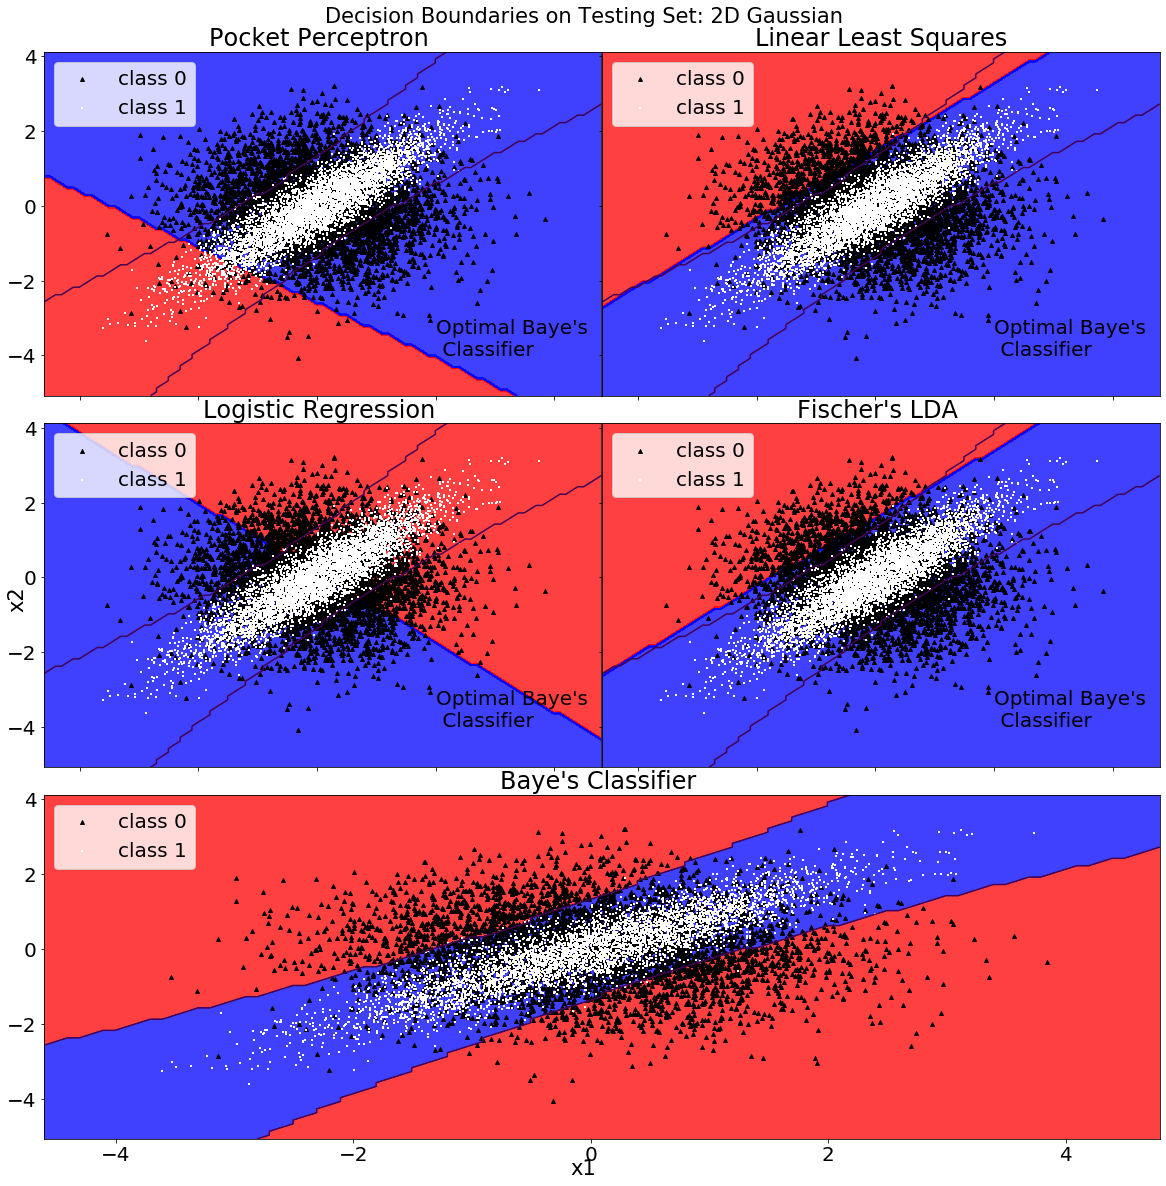
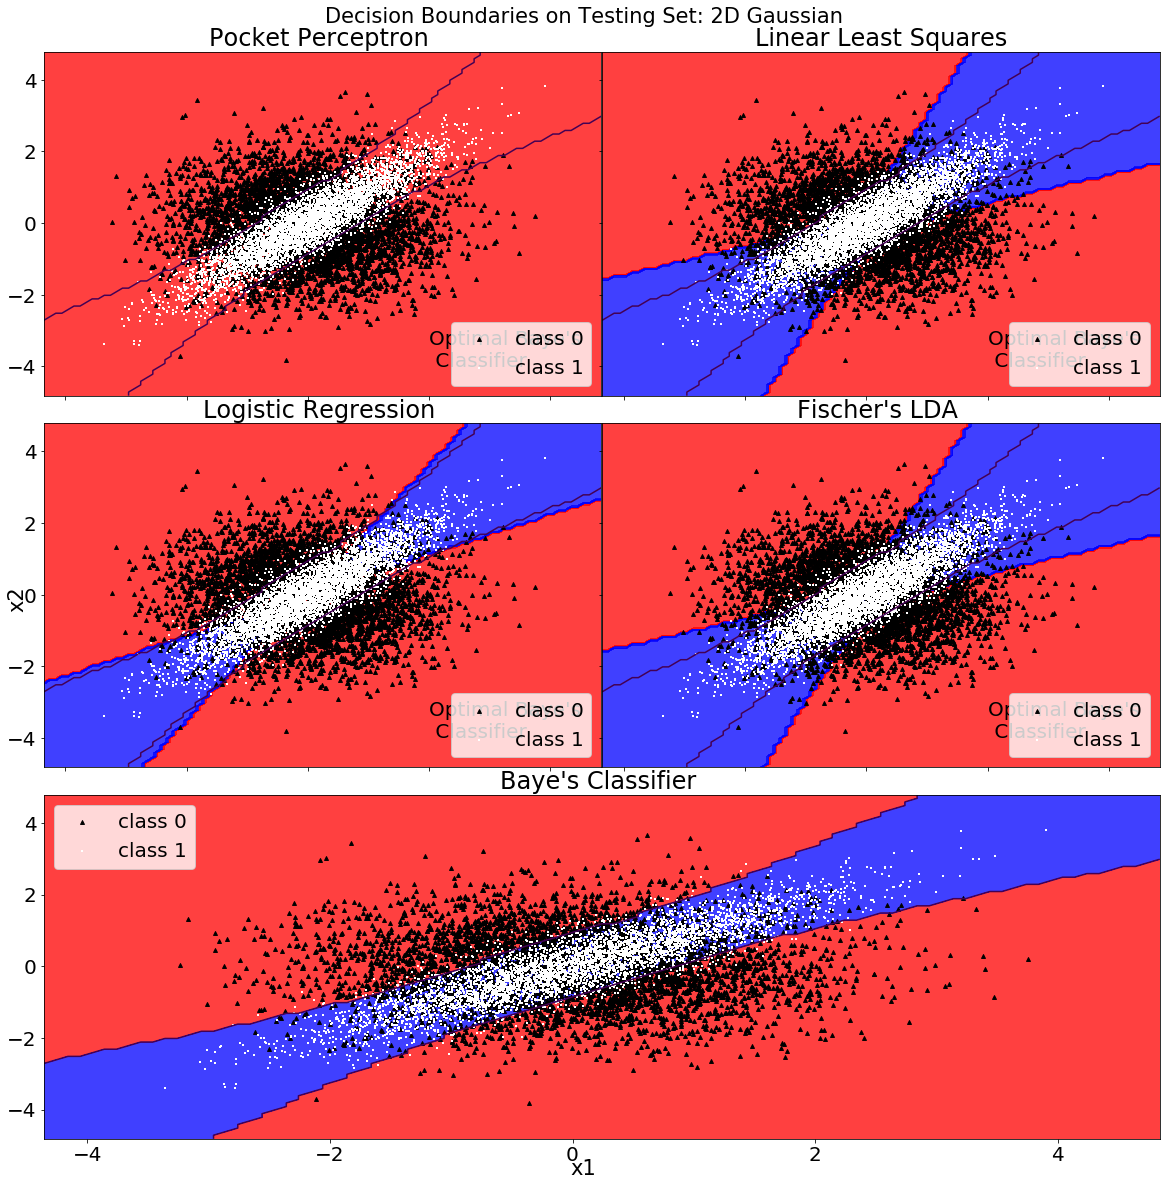
small adjustments

diff --git a/Assignment 4/Classification Task/Synthetic Dataset/my_help_functions.py b/Assignment 4/Classification Task/Synthetic Dataset/my_help_functions.py
@@ -17,7 +17,7 @@ def pocket_percep(x_train,y_train):
     
     y=np.expand_dims(y,axis=1)
     x=np.concatenate((bias,x_train),axis=1)
-    learning_rate=0.001
+    learning_rate=0.01
 
     W=np.zeros((x_train.shape[1]+1))
 
@@ -83,7 +83,7 @@ def log_reg(x_train,y_train):
     
     y=np.expand_dims(y,axis=1)
     x=np.concatenate((bias,x_train),axis=1)
-    learning_rate=0.001
+    learning_rate=0.1
     W=np.zeros((x_train.shape[1]+1))
     
     for i in range(100):
@@ -308,6 +308,15 @@ def MESH_plot(y_set,X_set,title_name,**kwargs):
     X1, X2 = np.meshgrid(np.arange(start=X_set[:, 0].min()-1,stop=X_set[:, 0].max()+1,step=0.1),
                          np.arange(start=X_set[:,1].min()-1,stop=X_set[:,1].max()+1,step=0.1))
     test_points=np.array([X1.ravel(), X2.ravel()]).T
+    
+    ###########################################QUADRATIC TRANSFORM############################
+    if quad_Dec:
+        test_points=np.concatenate((test_points,np.zeros((test_points.shape[0],3))),axis=1)
+        test_points[:,2]=test_points[:,0]**2
+        test_points[:,3]=test_points[:,1]**2
+        test_points[:,4]=test_points[:,0]*test_points[:,1]  
+    ###########################################QUADRATIC TRANSFORM############################
+        
     if type(classifier_weights)!= np.ndarray:
         # range_of_points=classifier_weights.predict(test_points)
         range_of_points=np.zeros(len(test_points))
@@ -315,10 +324,6 @@ def MESH_plot(y_set,X_set,title_name,**kwargs):
         
         # for i in range(len(test_points)):
         #     range_of_points[i]=(np.sign(bay.dec_bound(test_points[i]))+1)/2
-        ###########################################QUADRATIC TRANSFORM############################
-        if quad_Dec:
-            test_points=np.concatenate((test_points,np.zeros((test_points.shape[0],3))),axis=1)        
-        ###########################################QUADRATIC TRANSFORM############################
         range_of_points=bay.dec_bound(test_points)
             
             
@@ -327,11 +332,11 @@ def MESH_plot(y_set,X_set,title_name,**kwargs):
         cs=subplot.contourf(X1, X2,classifier_regions,alpha = 0.75,levels=[-1,0,1],cmap = ListedColormap(('red', 'blue')))
     else:
         if Fisher_or_Log.lower()=="fischer":
-            range_of_points=linear_classify(classifier_weights[0:3],test_points,0,only_classify=True,fischer=True)
+            range_of_points=linear_classify(classifier_weights,test_points,0,only_classify=True,fischer=True)
         elif Fisher_or_Log.lower()=="logistic":
-            range_of_points=linear_classify(classifier_weights[0:3],test_points,0,only_classify=True,logistic=True)
+            range_of_points=linear_classify(classifier_weights,test_points,0,only_classify=True,logistic=True)
         else:
-            range_of_points=linear_classify(classifier_weights[0:3],test_points,0,only_classify=True)
+            range_of_points=linear_classify(classifier_weights,test_points,0,only_classify=True)
             
         classifier_regions=range_of_points.reshape(X1.shape) #Reshape it into a matrix        
         cs=subplot.contourf(X1, X2,classifier_regions,alpha = 0.75, cmap = ListedColormap(('red', 'blue')))
@@ -346,13 +351,13 @@ def MESH_plot(y_set,X_set,title_name,**kwargs):
         # for i in range(len(test_points)):
         #     temp[i]=bay.dec_bound(test_points[i])
         
-        ###########################################QUADRATIC TRANSFORM############################
-        if quad_Dec:
-            if type(classifier_weights)!= np.ndarray:
-                test_points=test_points
-            else:
-                test_points=np.concatenate((test_points,np.zeros((test_points.shape[0],3))),axis=1)
-        ###########################################QUADRATIC TRANSFORM############################
+        # ###########################################QUADRATIC TRANSFORM############################
+        # if quad_Dec:
+        #     if type(classifier_weights)!= np.ndarray:
+        #         test_points=test_points
+        #     else:
+        #         test_points=np.concatenate((test_points,np.zeros((test_points.shape[0],3))),axis=1)
+        # ###########################################QUADRATIC TRANSFORM############################
         temp=bay.dec_bound(test_points)
             
         temp=np.expand_dims(np.asarray(temp),axis=1)

diff --git a/Assignment 4/Classification Task/Credit/Confusion_Kaggle.py b/Assignment 4/Classification Task/Credit/Confusion_Kaggle.py
@@ -7,7 +7,7 @@ def plot_confusion_matrix(cm,
                           target_names,
                           
                           cmap=None,
-                          normalize=True,**kwargs):
+                          normalize=False,**kwargs):
     """
     given a sklearn confusion matrix (cm), make a nice plot
 
@@ -47,13 +47,13 @@ def plot_confusion_matrix(cm,
     accuracy = (np.trace(cm) / float(np.sum(cm)))*100
     misclass = (100 - accuracy)
 
-    if cmap is None:
-        # cmap = plt.get_cmap('YlGnBu')
-        cmap = plt.get_cmap('winter')
+    # if cmap is None:
+    #     cmap = plt.get_cmap('YlOrRd')
+    cmap = plt.get_cmap('YlOrRd')
     
     # plt.rcParams.update({'font.size': 20})
     plt.figure(num=None, figsize=(10, 10), dpi=150, facecolor='w', edgecolor='k')    
-    plt.imshow(cm, interpolation='nearest', cmap=cmap)
+    plt.imshow(cm, interpolation='nearest')
     plt.rcParams.update({'font.size': 15})
     plt.title(title,fontsize=25)
     plt.rcParams.update({'font.size': 20})
@@ -70,19 +70,18 @@ def plot_confusion_matrix(cm,
 
 
     thresh = cm.max() / 1.5 if normalize else cm.max() / 2
-    thresh=thresh*100
     for i, j in itertools.product(range(cm.shape[0]), range(cm.shape[1])):
         if normalize:
-            plt.text(j, i, "{:0.2f}%".format(cm[i, j]*100),
+            plt.text(j, i, "{:0.2f}".format(cm[i, j]),
                      horizontalalignment="center",
-                     color="white" if cm[i, j] > thresh else "black",fontsize=20)
+                     color="black" if cm[i, j] > thresh else "white",fontsize=20)
         else:
-            plt.text(j, i, "{:,}".format(cm[i, j]),
+            plt.text(j, i, "{:0.2f}".format(cm[i, j]),
                      horizontalalignment="center",
-                     color="white" if cm[i, j] > thresh else "black",fontsize=20)
+                     color="black" if cm[i, j] > thresh else "white",fontsize=20)
 
 
     # plt.tight_layout()    
-    plt.ylabel('True label',fontsize=25)
-    plt.xlabel('\nPredicted label\n Accuracy={:0.2f} %; Error={:0.2f} %'.format(accuracy, misclass),fontsize=25)
+    plt.ylabel('Predicted label',fontsize=25)
+    plt.xlabel('\n True label\n Accuracy={:0.2f} %; Error={:0.2f} %'.format(accuracy, misclass),fontsize=25)
     plt.show()

diff --git a/Assignment 4/Classification Task/Synthetic Dataset/Main_Code.py b/Assignment 4/Classification Task/Synthetic Dataset/Main_Code.py
@@ -14,10 +14,10 @@ d=2 #How many dimensions
 p=0.5
 
 means=[np.zeros(d),np.zeros(d)]
-means=[[0,3],[3,2]]
+means=[[0,0],[0,0]]
 means=np.squeeze(np.asarray(means)).T
-covariance=np.dstack(([[1, -0.5],[-0.5, 1]],[[1, 0.9],[0.9, 1]]))
-covariance=np.dstack(([[1, 0.9],[0.9, 1]],[[1, 0],[0, 1]]))
+# covariance=np.dstack(([[1, -0.5],[-0.5, 1]],[[1, 0.9],[0.9, 1]]))
+covariance=np.dstack(([[1, 0],[0, 1]],[[1, 0.9],[0.9, 1]]))
 # covariance=np.dstack((np.eye(d),np.eye(d)))
 #%% Creating the bayes object
 opti_bayes=mf.Bayes_Dec_Boundary(means[:,0],means[:,1],covariance[:,:,0],covariance[:,:,1],p,1-p)
@@ -48,12 +48,12 @@ opti_bayes.clf.fit(x_train,y_train)
 data=[x_train,y_train,x_test,y_test]
 [y_pred1,y_pred2,y_pred3,y_pred4,y_pred5]=mf.Eval(data,opti_bayes)
 #%%
-# mf.Plot_Figs(y_test,x_test,K,"10k Points")
+mf.Plot_Figs(y_test,x_test,K,"10k Points")
 #%%
-# mf.Plot_SubPlots(data,"Decision Boundaries on Testing Set: 2D Gaussian","x1","x2",opti_bayes,quad_Dec=quad_Dec)
+mf.Plot_SubPlots(data,"Decision Boundaries on Testing Set: 2D Gaussian","x1","x2",opti_bayes,quad_Dec=quad_Dec)
 from Confusion_Kaggle import plot_confusion_matrix
 import sklearn.metrics
-typ=" Testing Set 10D"
+typ=" Testing Set 2D"
 name1="\n Perceptron"+typ
 name2="\n Least Squares"+typ
 name3="\n Logistic Regression"+typ
@@ -64,11 +64,11 @@ name5="\n Baye's Classifier"+typ
 Class_labels= ["Class 0", "Class 1"]
 
 
-k1=sklearn.metrics.confusion_matrix(y_pred1,y_test,normalize='true')
-k2=sklearn.metrics.confusion_matrix(y_pred2,y_test,normalize='true')
-k3=sklearn.metrics.confusion_matrix(y_pred3,y_test,normalize='true')
-k4=sklearn.metrics.confusion_matrix(y_pred4,y_test,normalize='true')
-k5=sklearn.metrics.confusion_matrix(y_pred5,y_test,normalize='true')
+k1=sklearn.metrics.confusion_matrix(y_pred1,y_test)
+k2=sklearn.metrics.confusion_matrix(y_pred2,y_test)
+k3=sklearn.metrics.confusion_matrix(y_pred3,y_test)
+k4=sklearn.metrics.confusion_matrix(y_pred4,y_test)
+k5=sklearn.metrics.confusion_matrix(y_pred5,y_test)
 
 plot_confusion_matrix(k1, Class_labels,title=name1)
 plot_confusion_matrix(k2, Class_labels,title=name2)

diff --git a/Assignment 4/Classification Task/Credit/Main.py b/Assignment 4/Classification Task/Credit/Main.py
@@ -58,7 +58,7 @@ data_clean = pd.concat([data[numvars], dummyvars], axis = 1)
 # Unscaled, unnormalized data
 X_clean = data_clean.drop('classification', axis=1)
 y_clean = data_clean['classification']
-X_train_clean, X_test_clean, y_train_clean, y_test_clean = train_test_split(X_clean,y_clean,test_size=0.2, random_state=1)
+X_train_clean, X_test_clean, y_train_clean, y_test_clean = train_test_split(X_clean,y_clean,test_size=0.3, random_state=1)
 
 #%% Oversampling to fix imbalance
 from imblearn.over_sampling import SMOTE
@@ -69,8 +69,8 @@ from imblearn.over_sampling import SMOTE
 # Apply SMOTE
 sm = SMOTE()
 X_train_clean_res, y_train_clean_res = sm.fit_sample(X_train_clean, y_train_clean)
-# X_train_clean_res=X_train_clean+0
-# y_train_clean_res=y_train_clean+0
+X_train_clean_res=X_train_clean+0
+y_train_clean_res=y_train_clean+0
 # Print number of 'good' credits and 'bad credits, should be fairly balanced now
 print("Before/After clean")
 unique, counts = np.unique(y_train_clean, return_counts=True)
@@ -100,17 +100,19 @@ y_train_clean_res=y_train_clean_res.to_numpy()
 X_test_clean=X_test_clean.to_numpy()
 y_test_clean=y_test_clean.to_numpy()
 data=[X_train_clean_res,y_train_clean_res,X_test_clean, y_test_clean]
+# data=[X_train_clean_res,y_train_clean_res,X_train_clean_res, y_train_clean_res]
+
 [y_pred1,y_pred2,y_pred3,y_pred4,y_test]=as4.Eval(data)
 
 #%%CONFUSION PLOTS
 from Confusion_Kaggle import plot_confusion_matrix
 import sklearn
-split="80 : 20"
+split="70 : 30 train set"
 name1="\n Perceptron "+split
 name2="\n Logistic "+split
 name3="\n Least Squares "+split
 name4="\n Fischer's LDA "+split
-Class_labels= [str(cla) for cla in np.unique(y_test)]
+Class_labels= ['Bad Credit', 'Good Credit']
 
 
 k1=sklearn.metrics.confusion_matrix(y_pred1+1,y_test+1,normalize=None)

diff --git a/Assignment 4/Classification Task/Synthetic Dataset/Confusion_Kaggle.py b/Assignment 4/Classification Task/Synthetic Dataset/Confusion_Kaggle.py
@@ -72,16 +72,16 @@ def plot_confusion_matrix(cm,
     thresh = cm.max() / 1.5 if normalize else cm.max() / 2
     for i, j in itertools.product(range(cm.shape[0]), range(cm.shape[1])):
         if normalize:
-            plt.text(j, i, "{:0.2f}%".format(cm[i, j]*100),
+            plt.text(j, i, "{:0.2f}".format(cm[i, j]),
                      horizontalalignment="center",
                      color="black" if cm[i, j] > thresh else "white",fontsize=20)
         else:
-            plt.text(j, i, "{:0.2f}%".format(100*cm[i, j]),
+            plt.text(j, i, "{:0.2f}".format(cm[i, j]),
                      horizontalalignment="center",
                      color="black" if cm[i, j] > thresh else "white",fontsize=20)
 
 
     # plt.tight_layout()    
-    plt.ylabel('True label',fontsize=25)
-    plt.xlabel('\nPredicted label\n Accuracy={:0.2f} %; Error={:0.2f} %'.format(accuracy, misclass),fontsize=25)
+    plt.ylabel('Predicted label',fontsize=25)
+    plt.xlabel('\n True label\n Accuracy={:0.2f} %; Error={:0.2f} %'.format(accuracy, misclass),fontsize=25)
     plt.show()
